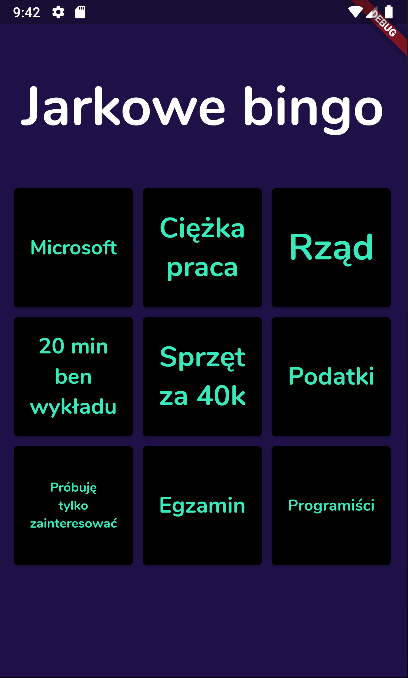
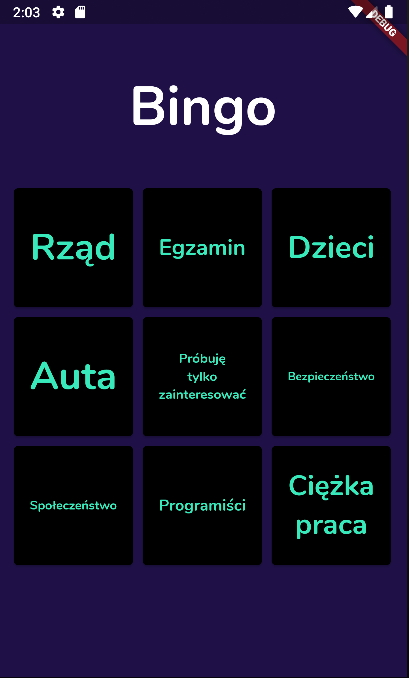
upgrade

diff --git a/lib/bingo_page.dart b/lib/bingo_page.dart
@@ -94,7 +94,7 @@ class _BingoPageState extends State<BingoPage> {
           children: [
             Padding(
               child: Text(
-                "Jarkowe bingo",
+                "Bingo",
                 textAlign: TextAlign.center,
                 style: GoogleFonts.nunito(
                   color: Colors.white,
